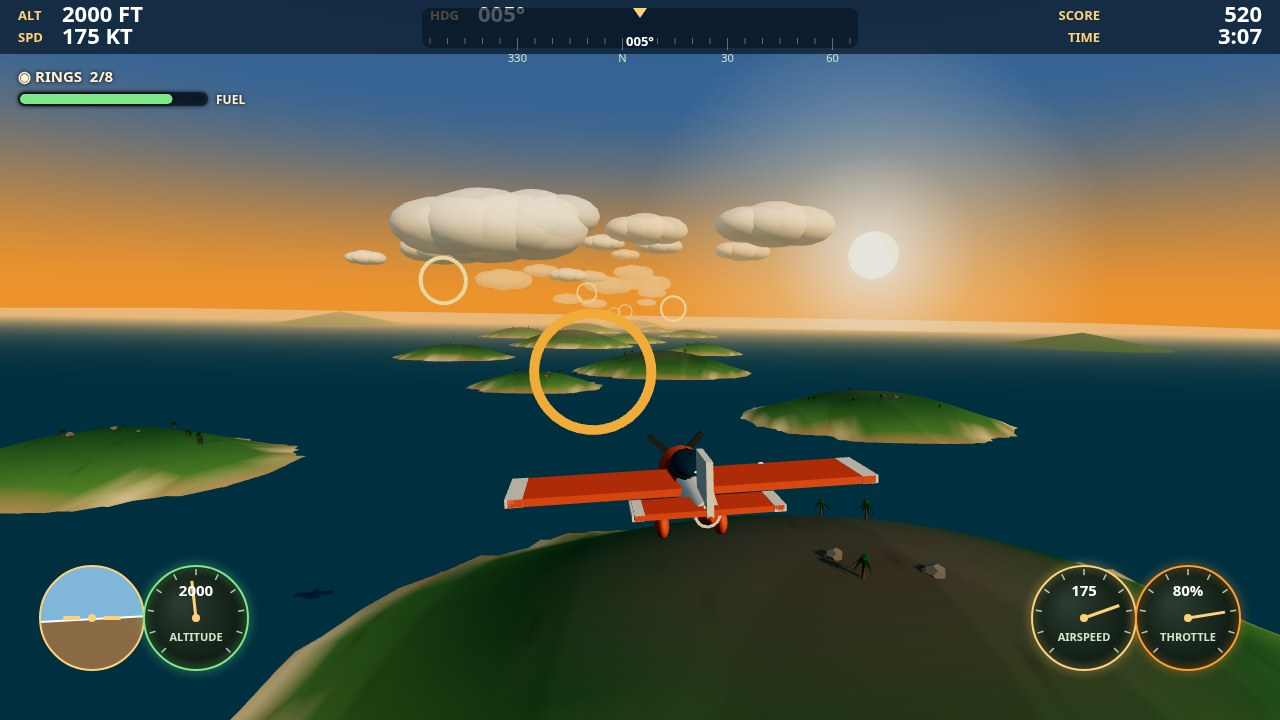
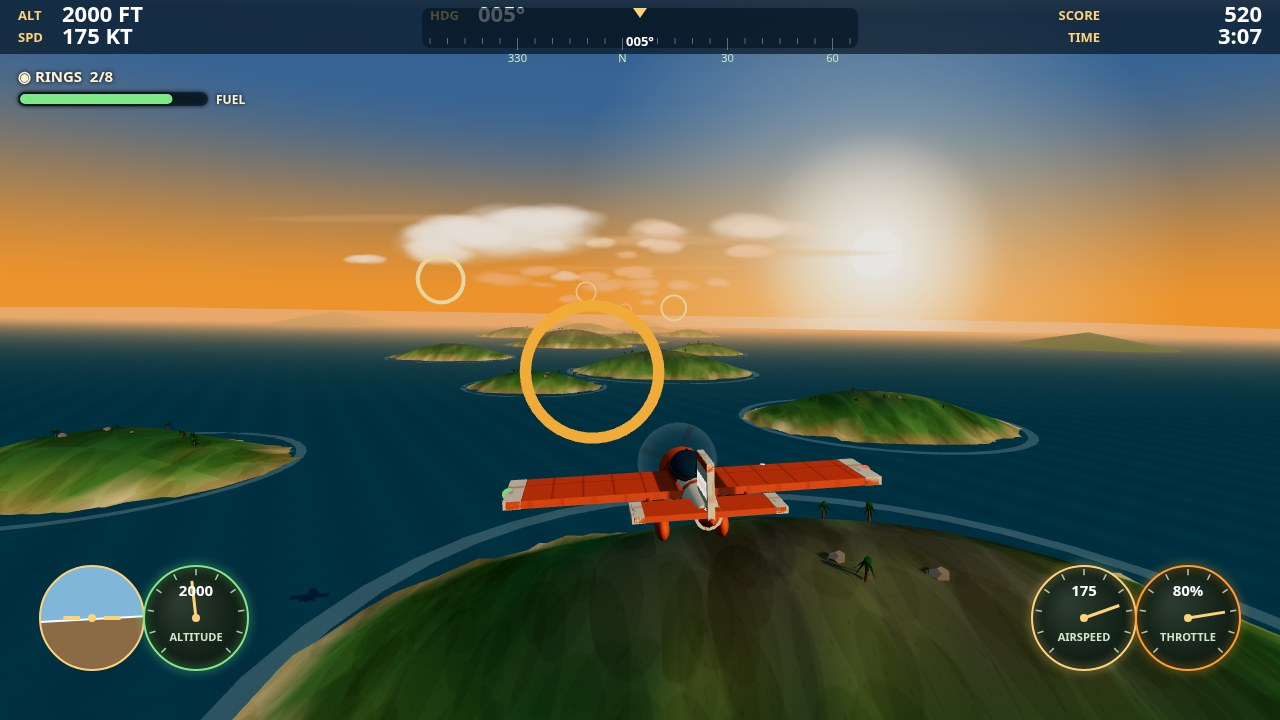
Archipelago Run v4: screenshots + tuning — subtler foam rings, approach-corridor clouds ahead of Coral Bay

diff --git a/game/src/render3d.js b/game/src/render3d.js
@@ -191,10 +191,10 @@ function buildSea() {
   // Foam rings where the sea meets each island, so the shoreline reads
   // as surf instead of a hard green/blue edge.
   foamMat = new THREE.MeshBasicMaterial({
-    color: 0xf2fbff, transparent: true, opacity: 0.34, side: THREE.DoubleSide,
+    color: 0xf2fbff, transparent: true, opacity: 0.20, side: THREE.DoubleSide,
   });
   const addFoam = (x, z, r) => {
-    const ring = new THREE.Mesh(new THREE.RingGeometry(r * 0.94, r * 1.07, 40), foamMat);
+    const ring = new THREE.Mesh(new THREE.RingGeometry(r * 0.97, r * 1.03, 40), foamMat);
     ring.rotation.x = -Math.PI / 2;
     ring.position.set(x, 0.75, z);
     scene.add(ring);
@@ -483,33 +483,42 @@ let cloudTex = null;
 
 function buildClouds() {
   cloudTex = makeCloudPuffTexture();
-  for (const c of World.clouds) {
+  const addCloudGroup = (cx, cy, cz, s) => {
     const group = new THREE.Group();
     // Four to six layered soft billboards per cloud: from any angle the
     // cloud reads as volume with a dissolving edge, not stacked balls.
-    const puffs = 4 + Math.floor(hashJitter(c.x, c.z) * 3);
+    const puffs = 4 + Math.floor(hashJitter(cx, cz) * 3);
     for (let i = 0; i < puffs; i++) {
-      const f = 0.7 + hashJitter(c.x + i * 13, c.z) * 0.7;
+      const f = 0.7 + hashJitter(cx + i * 13, cz) * 0.7;
       const mat = new THREE.SpriteMaterial({
         map: cloudTex, transparent: true,
-        opacity: 0.5 + hashJitter(c.z, c.x + i) * 0.35,
+        opacity: 0.5 + hashJitter(cz, cx + i) * 0.35,
         depthWrite: false,
       });
       const spr = new THREE.Sprite(mat);
-      const w = c.s * 2.4 * f;
+      const w = s * 2.4 * f;
       spr.scale.set(w, w * 0.42, 1);
       spr.position.set(
-        (hashJitter(i * 7, c.x) - 0.5) * c.s * 1.5,
-        (hashJitter(i * 3, c.z) - 0.5) * c.s * 0.35,
-        (hashJitter(c.x, i * 11) - 0.5) * c.s * 0.9
+        (hashJitter(i * 7, cx) - 0.5) * s * 1.5,
+        (hashJitter(i * 3, cz) - 0.5) * s * 0.35,
+        (hashJitter(cx, i * 11) - 0.5) * s * 0.9
       );
       group.add(spr);
     }
-    group.position.set(c.x, c.y, c.z);
-    group.userData.baseX = c.x;
+    group.position.set(cx, cy, cz);
+    group.userData.baseX = cx;
     scene.add(group);
     cloudPuffs.push(group);
-  }
+  };
+  for (const c of World.clouds) addCloudGroup(c.x, c.y, c.z, c.s);
+
+  // Approach-corridor clouds: the final-approach and landing frames look
+  // straight down the course past Coral Bay, so the sky ahead of the
+  // runway needs its own clouds or it reads as one flat orange wall.
+  for (const [x, y, z, s] of [
+    [-700, 520, 10100, 150], [500, 640, 10600, 180], [0, 760, 11200, 200],
+    [-1200, 600, 10800, 130], [1100, 480, 9900, 120],
+  ]) addCloudGroup(x, y, z, s);
 
   // High thin cirrus streaks near the horizon for depth.
   for (let i = 0; i < 6; i++) {
@@ -522,6 +531,20 @@ function buildClouds() {
       (hashJitter(i * 17, 3) - 0.5) * 7000,
       720 + hashJitter(i * 23, 7) * 260,
       2400 + hashJitter(i * 29, 11) * 7000
+    );
+    scene.add(spr);
+  }
+  // Cirrus ahead of the runway, for the landing frame.
+  for (let i = 0; i < 3; i++) {
+    const mat = new THREE.SpriteMaterial({
+      map: cloudTex, transparent: true, opacity: 0.30, depthWrite: false,
+    });
+    const spr = new THREE.Sprite(mat);
+    spr.scale.set(1800 + hashJitter(i * 31, 5) * 1200, 110, 1);
+    spr.position.set(
+      (hashJitter(i * 37, 9) - 0.5) * 3200,
+      680 + hashJitter(i * 41, 13) * 220,
+      10200 + hashJitter(i * 43, 17) * 1400
     );
     scene.add(spr);
   }
@@ -1021,7 +1044,7 @@ function draw(S) {
     const s = 1 + Math.sin(S.time * 0.9 + f.phase) * 0.02;
     f.mesh.scale.setScalar(s);
   }
-  if (foamMat) foamMat.opacity = 0.30 + Math.sin(S.time * 0.9) * 0.07;
+  if (foamMat) foamMat.opacity = 0.18 + Math.sin(S.time * 0.9) * 0.05;
 
   // Clouds drift slowly downwind.
   for (const g of cloudPuffs) {
